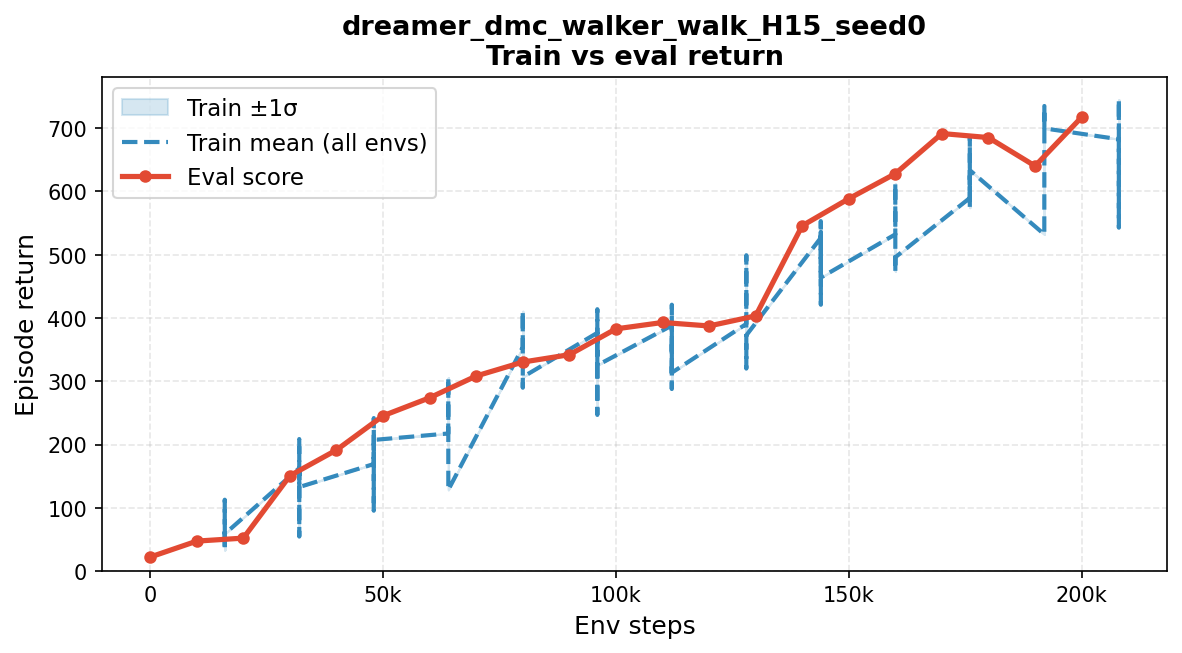
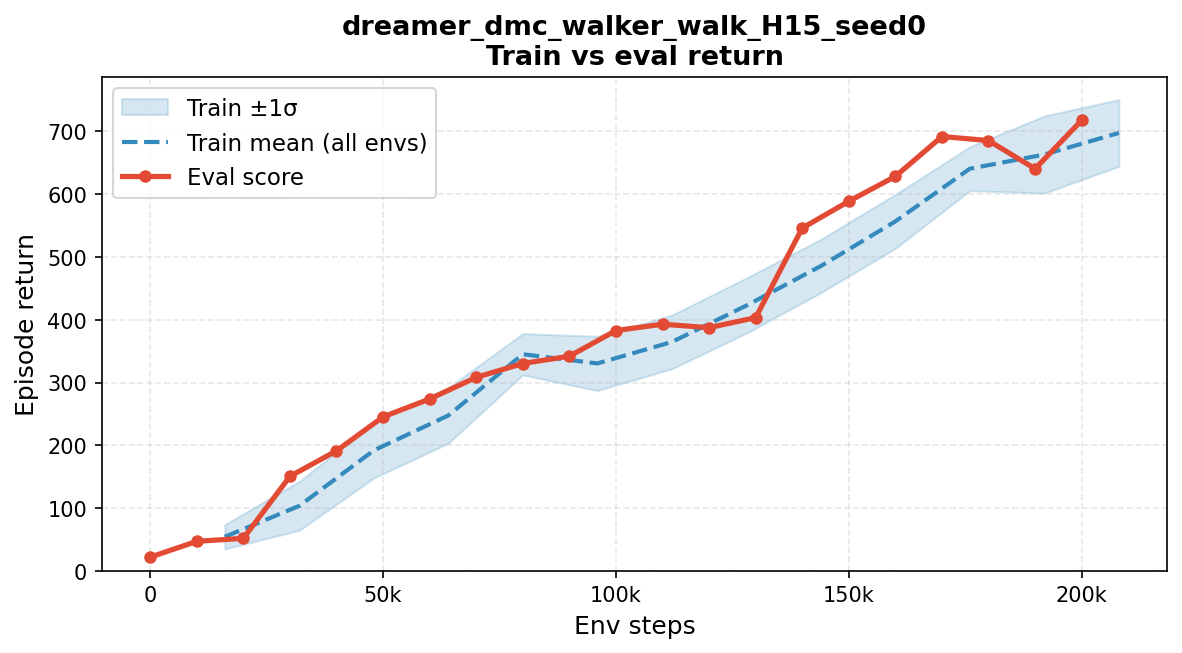
update metrics plotting

diff --git a/scripts/plot_metrics.py b/scripts/plot_metrics.py
@@ -136,14 +136,34 @@ def plot_train(series, out: Path, tag: str, show: bool):
         print("  [skip] no episode/score found")
         return
 
-    # group by unique step values (each step has 16 env entries)
-    step_groups: dict[int, list] = defaultdict(list)
-    for s, v in zip(ts.tolist(), tv.tolist()):
-        step_groups[s].append(v)
+    # ── bin episodes into windows so each bin has all 16 envs ──────────────
+    # auto-detect bin size as the smallest gap between distinct step clusters
+    unique_steps = np.unique(ts)
+    if len(unique_steps) > 1:
+        gaps = np.diff(unique_steps)
+        bin_size = int(np.min(gaps[gaps > 0])) * 16  # one full env-batch
+    else:
+        bin_size = 16000  # fallback
 
-    grp_steps  = np.array(sorted(step_groups.keys()))
-    grp_means  = np.array([np.mean(step_groups[s]) for s in grp_steps])
-    grp_stds   = np.array([np.std(step_groups[s])  for s in grp_steps])
+    max_step = int(ts.max())
+    bin_edges = np.arange(0, max_step + bin_size, bin_size)
+    bin_centers = (bin_edges[:-1] + bin_edges[1:]) / 2
+
+    grp_means, grp_stds = [], []
+    valid_centers = []
+    for lo, hi, center in zip(bin_edges[:-1], bin_edges[1:], bin_centers):
+        mask = (ts >= lo) & (ts < hi)
+        if mask.sum() == 0:
+            continue
+        vals = tv[mask]
+        grp_means.append(np.mean(vals))
+        grp_stds.append(np.std(vals))
+        valid_centers.append(center)
+
+    grp_steps = np.array(valid_centers)
+    grp_means = np.array(grp_means)
+    grp_stds  = np.array(grp_stds)
+    # ── end binning ────────────────────────────────────────────────────────
 
     fig, ax = plt.subplots(figsize=(8, 4.5))
 
